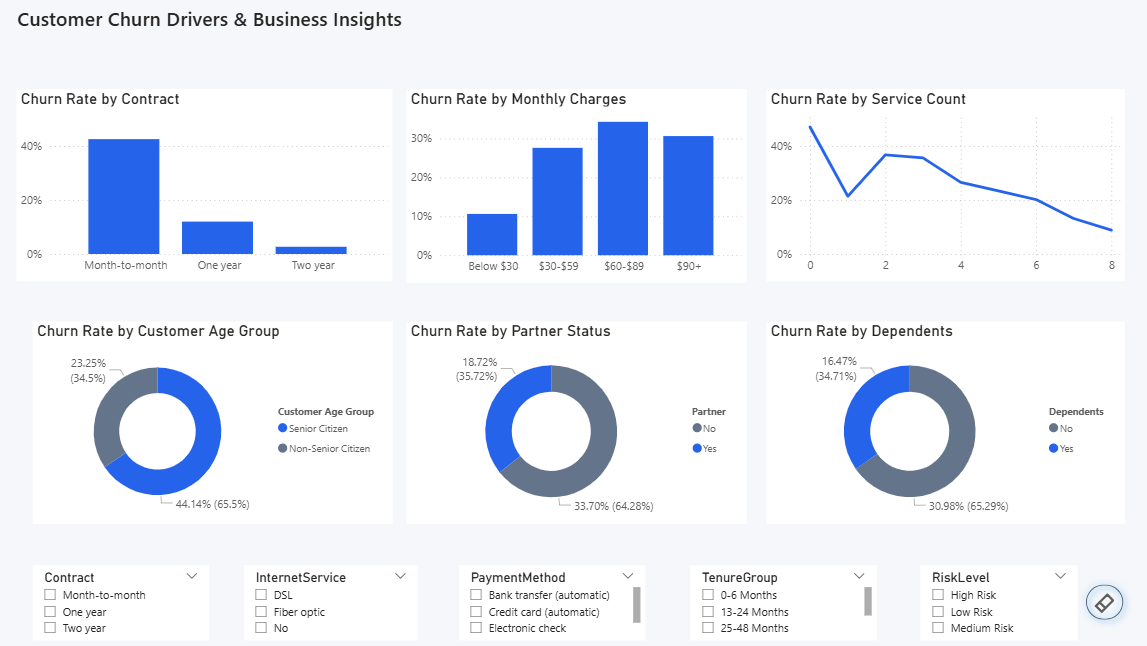
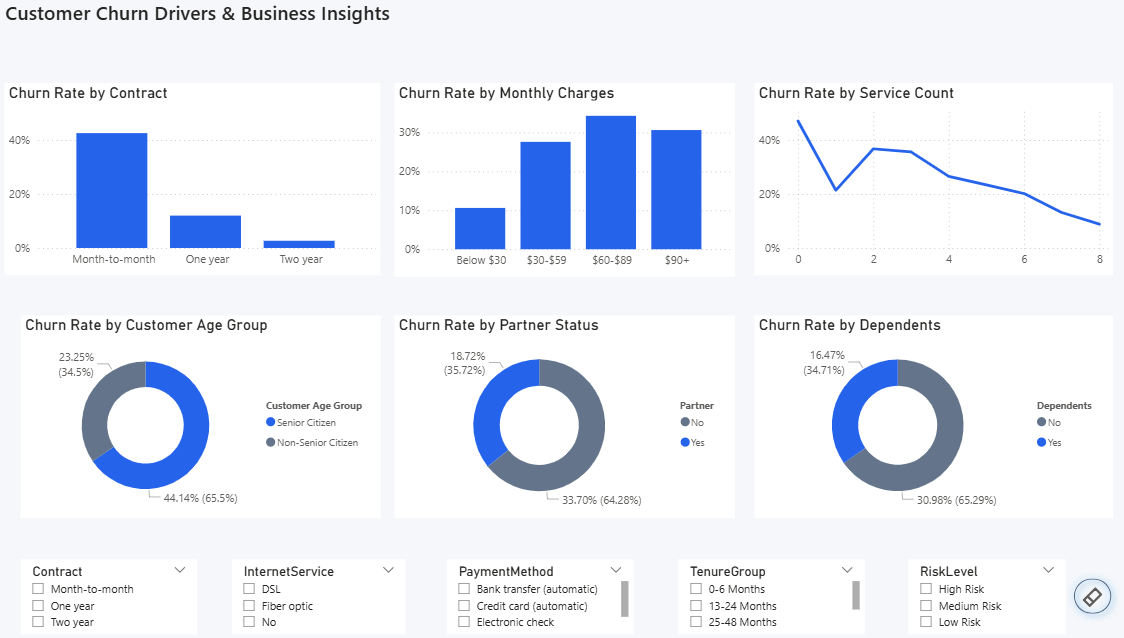
Polish churn project structure and presentation

diff --git a/projects/data-analytics/customer-churn-prediction/README.md b/projects/data-analytics/customer-churn-prediction/README.md
@@ -387,10 +387,10 @@ customer-churn-prediction/
 │   └── churn_threshold.pkl
 │
 ├── notebook/
-│   ├── Data Preprocessing.py
-│   ├── Feature Engineering.py
-│   ├── Churn Analysis.py
-│   └── Churn Model.py
+│   ├── data_preprocessing.py
+│   ├── feature_engineering.py
+│   ├── exploratory_data_analysis.py
+│   └── churn_model.py
 │
 ├── sql/
 │   └── churn-analysis.sql
